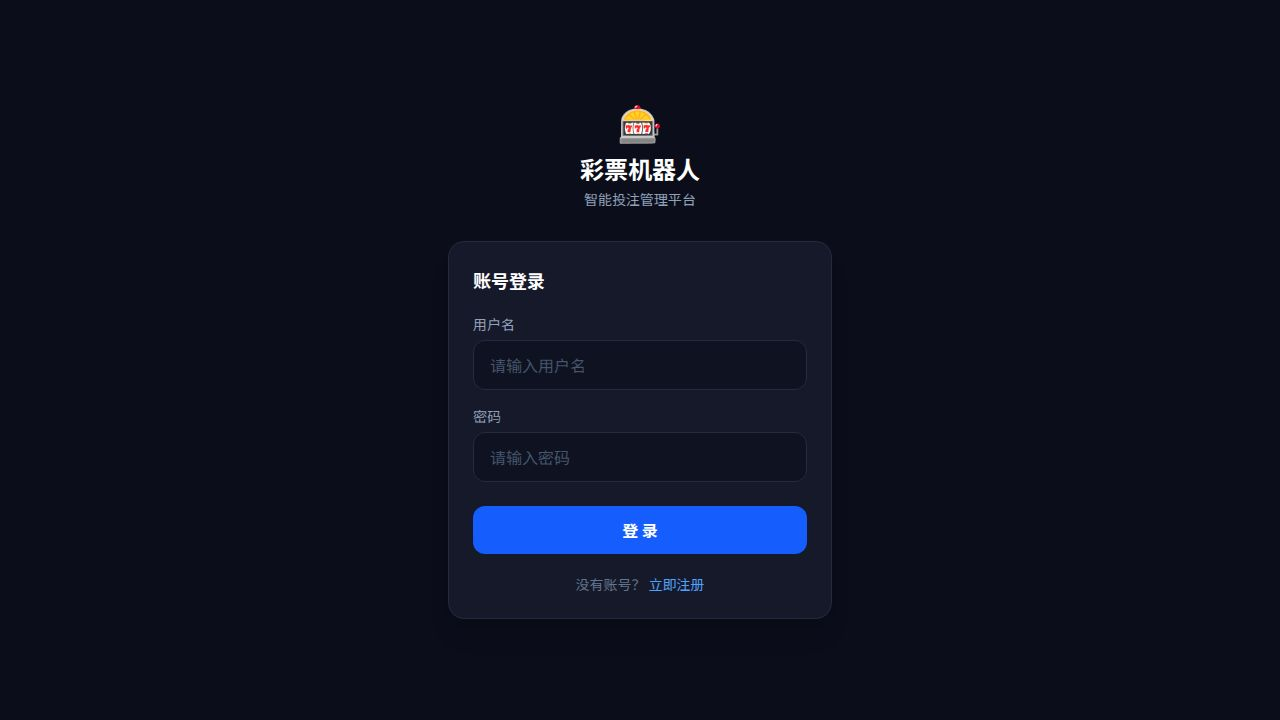
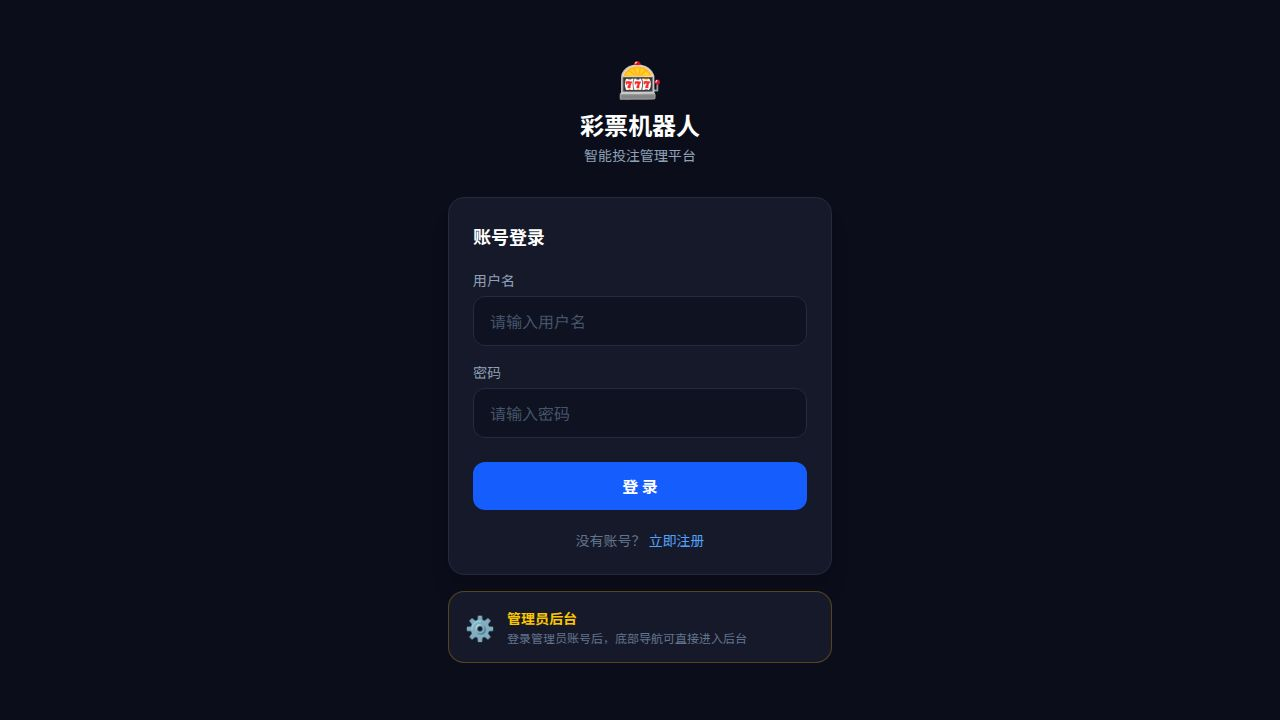
Clean up dashboard by removing unnecessary elements
Remove "本次注额" display and inline "设置" button from the Dashboard, making the layout tidier and implementing auto-save for bet amount input.

Replit-Commit-Author: Agent
Replit-Commit-Session-Id: 134be36f-f886-4852-860d-d42b0b425207
Replit-Commit-Checkpoint-Type: full_checkpoint
Replit-Commit-Event-Id: 61687af7-53c8-4c12-b091-0a5a0401ebf6
Replit-Commit-Screenshot-Url: https://storage.googleapis.com/screenshot-production-us-central1/531c3ea8-7483-4140-98ee-118c895e985f/134be36f-f886-4852-860d-d42b0b425207/Q0B0UTv
Replit-Helium-Checkpoint-Created: true

diff --git a/artifacts/lottery-bot/src/pages/Dashboard.tsx b/artifacts/lottery-bot/src/pages/Dashboard.tsx
@@ -729,25 +729,15 @@ export default function Dashboard() {
                 </button>
               </div>
 
-              <div className="flex gap-2 items-center">
-                <div className="flex-1">
-                  <label className="text-xs text-slate-500 mb-1 block">当前注额</label>
-                  <div className="flex gap-2">
-                    <input
-                      type="number" value={betAmountInput} onChange={e => setBetAmountInput(e.target.value)}
-                      className="flex-1 bg-[#0f1220] border border-[#252a3d] rounded-xl px-3 py-2 text-white text-sm focus:outline-none focus:border-blue-500"
-                      min="1"
-                    />
-                    <button onClick={() => void api.tg.config({ betAmount: Number(betAmountInput) }).then(() => void fetchStatus())}
-                      className="bg-[#252a3d] hover:bg-[#30375a] text-white text-sm px-3 rounded-xl transition">
-                      设置
-                    </button>
-                  </div>
-                </div>
-                <div className="text-right">
-                  <div className="text-xs text-slate-500 mb-1">本次注额</div>
-                  <div className="text-white font-bold text-lg">{status.currentBet ?? status.betAmount ?? 100}</div>
-                </div>
+              <div>
+                <label className="text-xs text-slate-500 mb-1 block">当前注额</label>
+                <input
+                  type="number" value={betAmountInput}
+                  onChange={e => setBetAmountInput(e.target.value)}
+                  onBlur={() => void api.tg.config({ betAmount: Number(betAmountInput) }).then(() => void fetchStatus())}
+                  className="w-full bg-[#0f1220] border border-[#252a3d] rounded-xl px-3 py-2 text-white text-sm focus:outline-none focus:border-blue-500"
+                  min="1"
+                />
               </div>
 
               <div className="mt-3 flex gap-2">